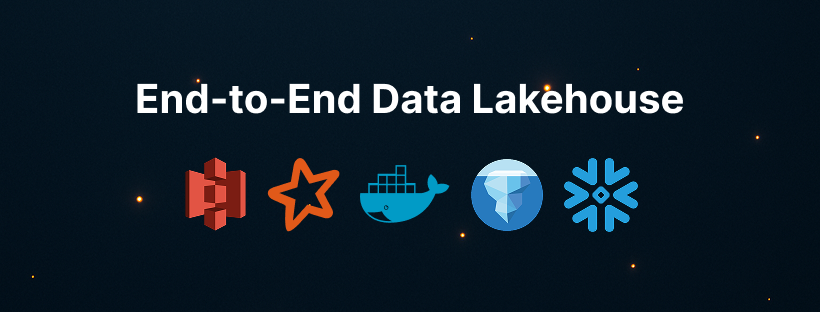
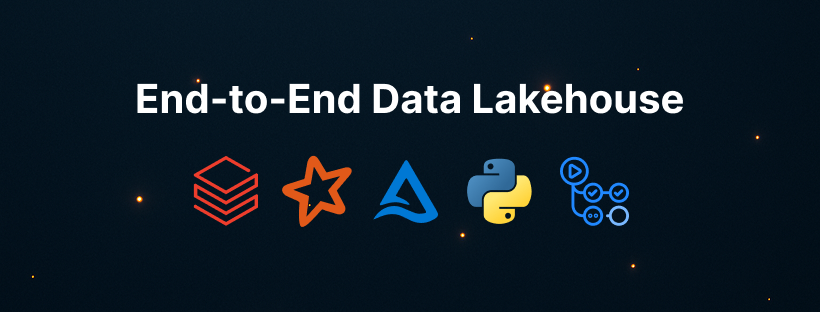
docs(readme): update personal readme

Changed region(s): [[0.2134, 0.4904, 0.7927, 0.75]]

diff --git a/README.md b/README.md
@@ -49,20 +49,21 @@ Currently pursuing a postgrad in Data Engineering while shipping personal projec
 
 ## Featured Projects
 
-### End-to-End Data Lakehouse with Spark, Iceberg & Snowflake
+### End-to-End Data Engineering Project on Databricks & AWS
 
 ![Architecture](./pics/lakehouse.png)
 
-A full-stack data engineering pipeline that builds a **transactional Data Lakehouse** architecture on AWS S3, integrating open-source compute with enterprise-grade analytics.
+Production-grade lakehouse pipeline that ingests, processes, and governs academic paper data from the arXiv API using a Medallion Architecture on Databricks and AWS.
 
-* Built with **Apache Spark** running locally via **Docker**, orchestrated with a simple **Makefile**.
-* Ingests raw XML/JSON data from the **arXiv API**, stored in an S3-backed **Bronze layer**.
-* Processes and cleans data into **Iceberg-managed Silver tables**, supporting ACID compliance and schema evolution.
-* Aggregates business-ready Gold tables (publication stats, author summaries) with performant **PySpark jobs**.
-* Final tables are **queried directly from Snowflake**, using **Iceberg Catalog Integration** for near real-time analytics.
-* Follows **Medallion Architecture** principles and decouples **storage (S3)** from **compute (local Spark)**.
+* End-to-end **ETL** flow from public **arXiv XML API** into a **Bronze–Silver–Gold** data model.
+* Built entirely on **Databricks** with **Unity Catalog** for centralized governance and security.
+* Storage in **Delta Lake** format on **AWS S3**, optimized for analytics and machine learning workloads.
+* Infrastructure and deployments automated via **Databricks Asset Bundles**, **Python wheel tasks**, and **GitHub Actions CI/CD**.
+* Comprehensive testing strategy with **pytest**, code linting via **Ruff**, and coverage tracking on **Codecov**.
+* Serverless job execution to minimize operational overhead while ensuring scalability.
+* Designed for data teams needing reliable, analytics-ready datasets with strong quality controls.
 
-> *"This project showcases my ability to design and implement a modern Lakehouse pipeline using open formats and cloud-native tools. It demonstrates real-world experience with Apache Iceberg, scalable data processing, and seamless integration with Snowflake for analytics."*
+> *"This project demonstrates my ability to architect and automate a modern, cloud-native data lakehouse with Databricks and AWS. It highlights skills in Medallion Architecture design, Unity Catalog governance, reproducible deployments, and CI/CD automation for data engineering."*
 
 🔗 [Link to Repository](https://github.com/BrunoChiconato/lakehouse-from-scratch)
 
